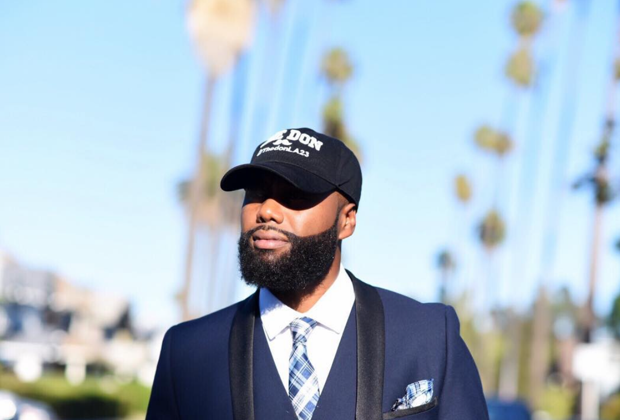
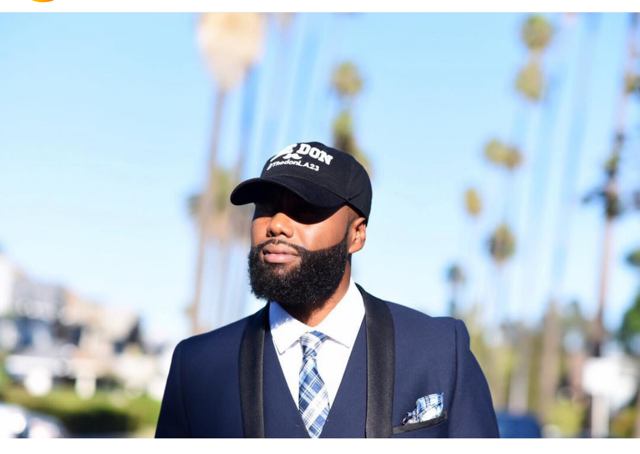
Update The Don LA thumbnail

diff --git a/index.html b/index.html
@@ -19,7 +19,7 @@
     </div></section>
     <section class="work" id="work" aria-labelledby="work-title"><div class="work-heading section-pad"><p class="label">SELECTED PROJECTS</p><h2 id="work-title">Some of<br><em>our work.</em></h2><div class="work-controls" aria-label="Project controls"><button class="work-arrow work-prev" type="button" aria-label="Previous project">←</button><p><span class="work-current">01</span> / 03</p><button class="work-arrow work-next" type="button" aria-label="Next project">→</button></div></div><div class="work-stage" aria-live="polite">
       <article class="work-slide is-active" data-project="01"><div class="work-visual work-visual--legacy"><span class="work-index">01</span><img src="assets/work/uncovered-legacy.png" width="1000" height="1000" loading="lazy" decoding="async" alt="Uncovered Legacy podcast identity"></div><div class="work-copy"><p class="work-type">Podcast · Culture · Storytelling</p><h3>Uncovered<br>Legacy</h3><a href="https://uncoveredlegacy.com/" target="_blank" rel="noopener noreferrer">View live site <svg class="action-icon" viewBox="0 0 20 20" aria-hidden="true"><path d="M5 15 15 5M7 5h8v8"/></svg></a></div></article>
-      <article class="work-slide" data-project="02" aria-hidden="true"><div class="work-visual work-visual--don"><span class="work-index">02</span><img src="assets/work/always-cuttin.png" width="620" height="420" loading="lazy" decoding="async" alt="The Don LA premium barbering showcase"></div><div class="work-copy"><p class="work-type">Barbering · Grooming · Los Angeles</p><h3>The Don<br>LA</h3><a href="https://alwayscuttin.org/" target="_blank" rel="noopener noreferrer">View live site <svg class="action-icon" viewBox="0 0 20 20" aria-hidden="true"><path d="M5 15 15 5M7 5h8v8"/></svg></a></div></article>
+      <article class="work-slide" data-project="02" aria-hidden="true"><div class="work-visual work-visual--don"><span class="work-index">02</span><img src="assets/work/always-cuttin.png" width="640" height="454" loading="lazy" decoding="async" alt="The Don LA premium barbering showcase"></div><div class="work-copy"><p class="work-type">Barbering · Grooming · Los Angeles</p><h3>The Don<br>LA</h3><a href="https://alwayscuttin.org/" target="_blank" rel="noopener noreferrer">View live site <svg class="action-icon" viewBox="0 0 20 20" aria-hidden="true"><path d="M5 15 15 5M7 5h8v8"/></svg></a></div></article>
       <article class="work-slide" data-project="03" aria-hidden="true"><div class="work-visual work-visual--joy"><span class="work-index">03</span><img src="assets/work/joy-christos-thumbnail.png" width="1536" height="1024" loading="lazy" decoding="async" alt="Joy Christos signature artwork for singer, comedian, and writer"></div><div class="work-copy"><p class="work-type">Artist · Music · Performance</p><h3>Joy<br>Christos</h3><a href="https://joychristos.com/" target="_blank" rel="noopener noreferrer">View live site <svg class="action-icon" viewBox="0 0 20 20" aria-hidden="true"><path d="M5 15 15 5M7 5h8v8"/></svg></a></div></article>
     </div><div class="work-dots" role="group" aria-label="Choose a project"><button class="is-active" type="button" aria-label="Show Uncovered Legacy" aria-pressed="true"></button><button type="button" aria-label="Show The Don LA" aria-pressed="false"></button><button type="button" aria-label="Show Joy Christos" aria-pressed="false"></button></div></section>
     <section class="contact" id="contact"><div class="contact-lead section-pad"><p class="label">YOUR MOVE</p><h2>LET'S GET<br>YOU <em>SEEN.</em></h2><div class="contact-lion" aria-hidden="true"></div><p class="contact-note">Have a project in mind? Tell us where you are and where you want to go.</p></div>
